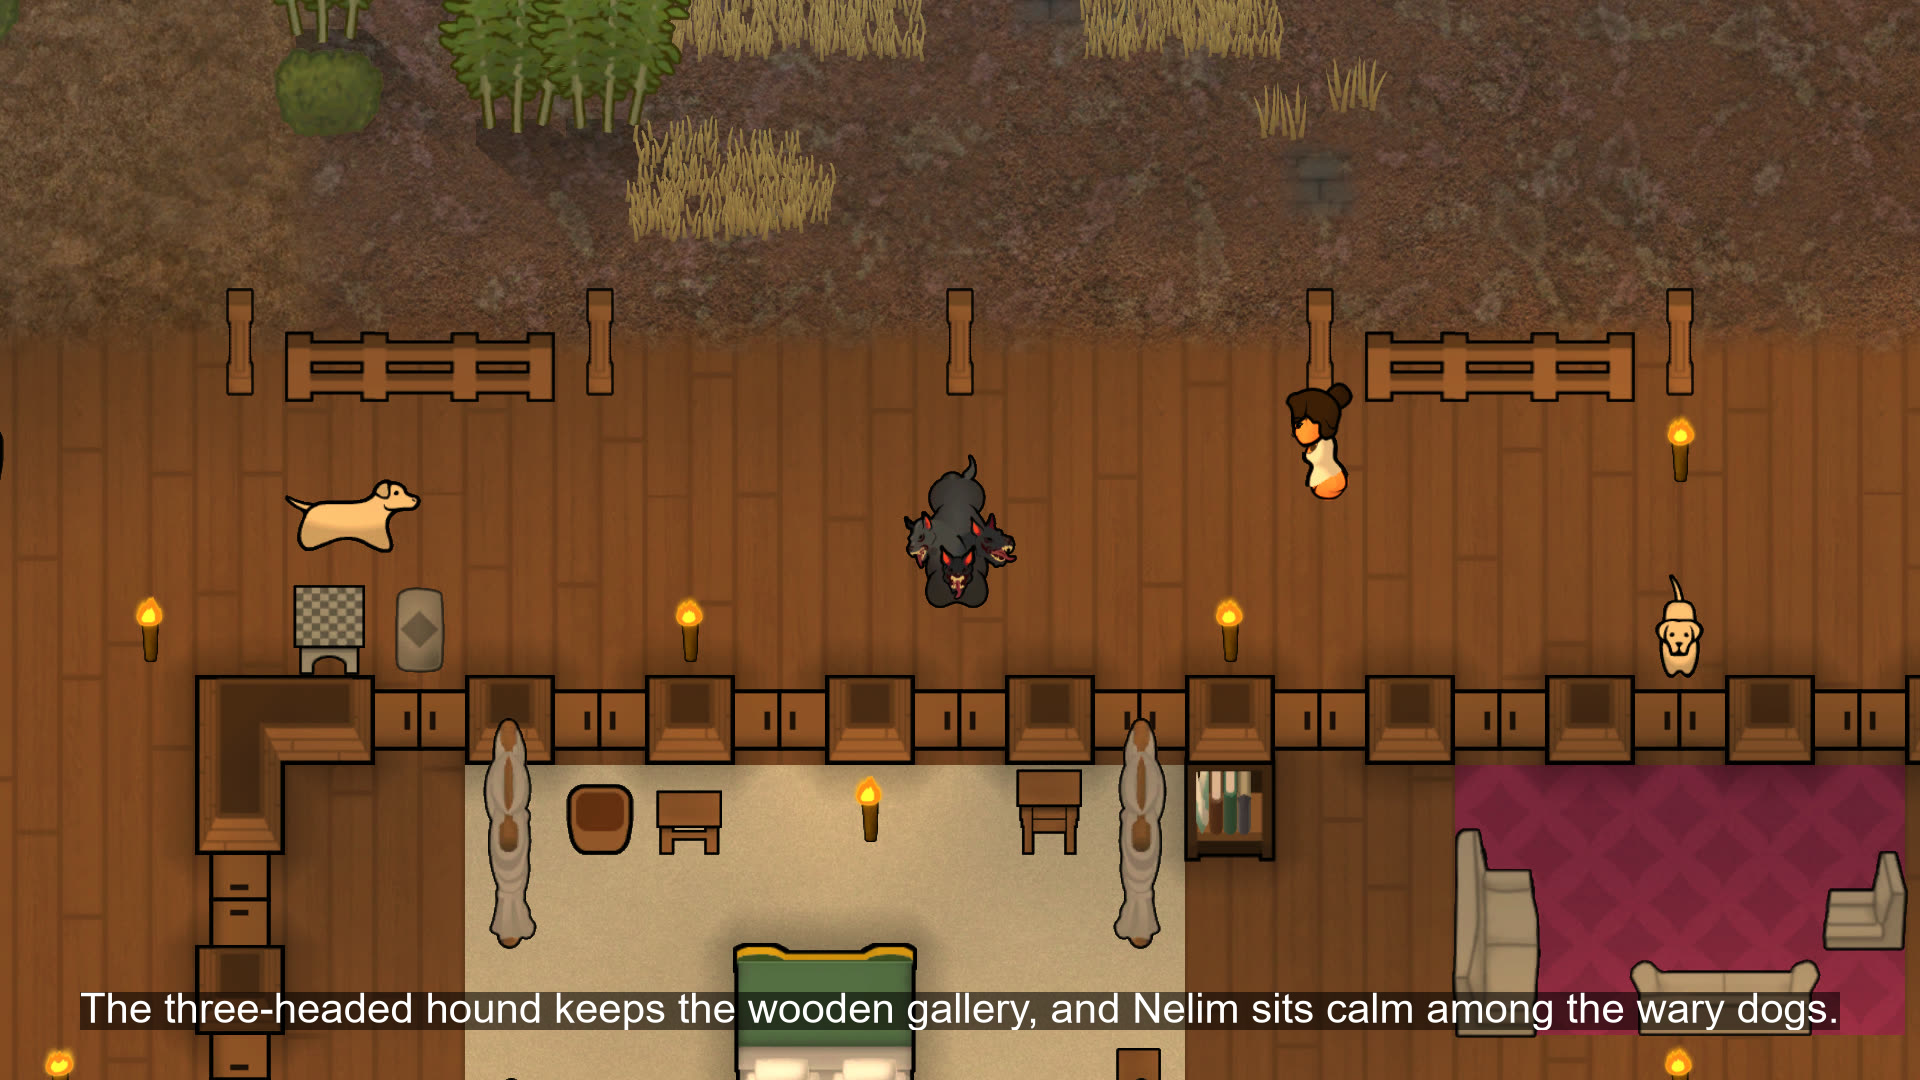
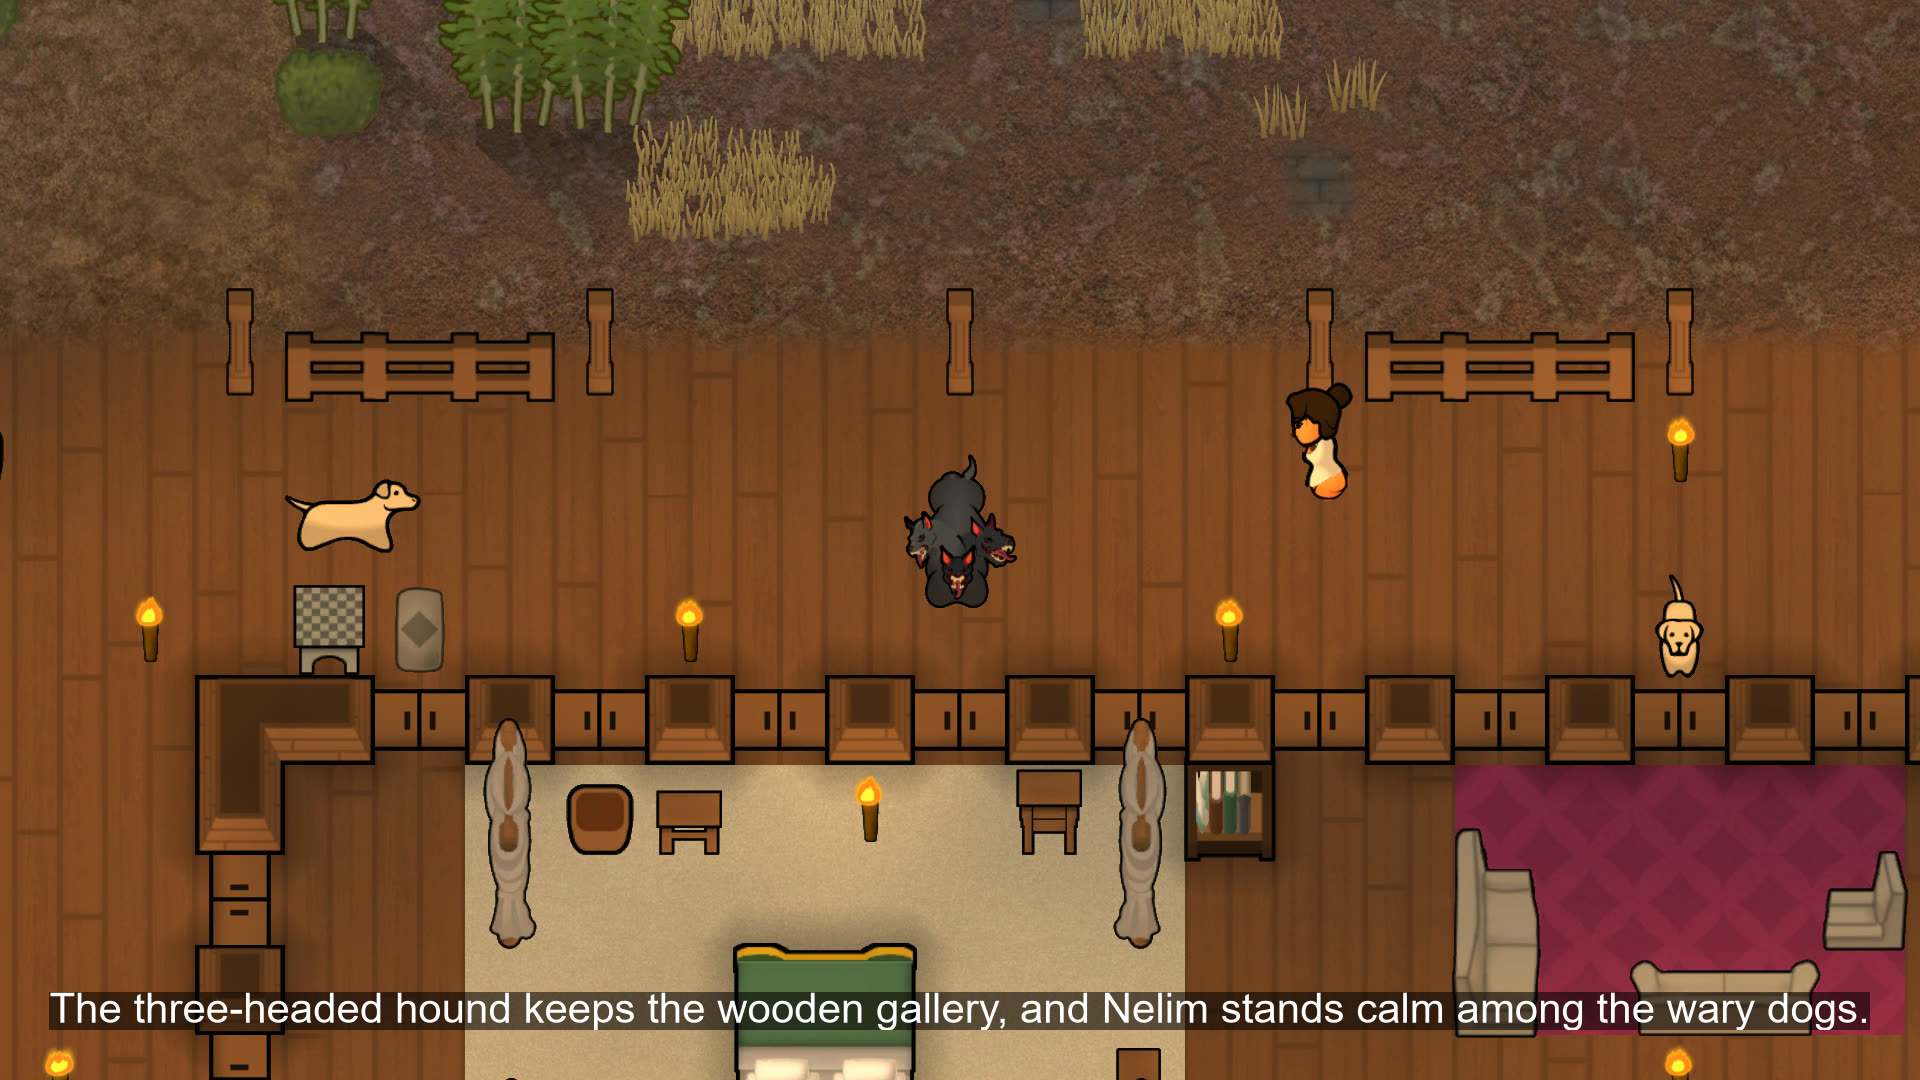
Gallery: hound caption matches the capture (stands, not sits)

Changed region(s): [[0.0, 0.9167, 1.0, 0.9778]]

diff --git a/PUBLICATION.md b/PUBLICATION.md
@@ -76,7 +76,7 @@ One English line at the bottom of each scene without an interface window (`GALLE
 | pegasus at the water garden | The winged horse drinks among the lilies, and Nelim stops to watch. |
 | unicorn in the plant garden | The unicorn walks the fenced plant garden, and Nelim follows at a distance. |
 | griffin among the statues | The griffin settles among the statues, one more of them that moved. |
-| hound on the gallery | The three-headed hound keeps the wooden gallery, and Nelim sits calm among the wary dogs. |
+| hound on the gallery | The three-headed hound keeps the wooden gallery, and Nelim stands calm among the wary dogs. |
 
 ## Steam description
 
